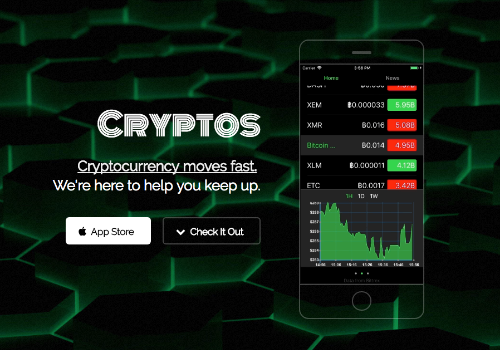
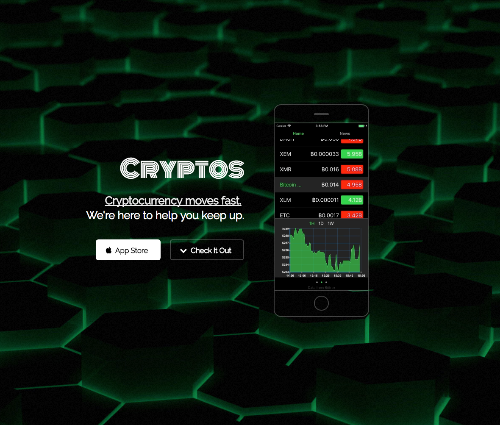
figured out the css source files

diff --git a/index.html b/index.html
@@ -40,7 +40,6 @@
 
 		<!-- Banner -->
 			<section id="banner">
-				<h2>Henry H. Chen</h2>
 				<p>My name is Henry Chen. I'm a software engineer and web designer. Browse my projects, or find out more about me below.</p>
 				<ul class="actions">
 					<li><a href="https://github.com/henrychen11" class="button big special">LinkedIn</a></li>
@@ -97,31 +96,31 @@
 			</section>
 
 		<!-- Two -->
-			<section id="two" class="wrapper special">
+			<section id="two" class="wrapper">
 				<div class="inner">
 					<header class="major narrow">
 						<h2>Skills and Technologies</h2>
 						<p>Filled with technological know how and endless curiosity</p>
 					</header>
 					<div class="image-grid">
-						<div>
-							<span class="icon major fa-television"></span>
-							<h3>FRONTEND:
+						<div class="image">
+							<span class="icon fa-television"></span>
+							<h3>Frontend:
 							<br><br>JavaScript (vanilla, jQuery, React/Redux, ES6), HTML/CSS/Sass</h3>
 							<p></p>
 						</div>
-						<div>
-							<span class="icon major fa-database"></span>
+						<div class="image">
+							<i class="custom fa fa-database" aria-hidden="true"></i>
 							<h3>Backend: <br><br>
 							Python, Java, Ruby on Rails, Node, Express, MongoDB</h3>
 						</div>
-						<div>
-							<span class="icon major fa-mobile"></span>
+						<div class="image">
+							<span class="icon fa-mobile"></span>
 							<h3>iOS Development: <br>
-							<br> REACT NATIVE<br>XCODE</h3>
+							<br>REACT NATIVE<br>XCODE</h3>
 						</div>
-						<div>
-							<span class="icon major fa-pencil"></span>
+						<div class="image">
+							<span class="icon fa-pencil"></span>
 							<h3>DESIGN: <br><br>
 							ADOBE CREATIVE SUITE<br>Balsamiq Mockups</h3>
 						</div>

diff --git a/assets/sass/layout/_banner.scss b/assets/sass/layout/_banner.scss
@@ -17,7 +17,7 @@
 		@include color-typography($banner_palette);
 		@include color-button($banner_palette);
 		background-attachment: fixed;
-		background-image: url('images/overlay.png'), url('../../images/banner.jpg');
+		// background-image: url('images/overlay.png'), url('../../images/banner.jpg');
 		background-size: cover;
 		text-align: center;
 

diff --git a/assets/css/main.css b/assets/css/main.css
@@ -3882,6 +3882,7 @@
 		background-image: url("images/overlay.png"), url("../../images/banner.jpg");
 		background-size: cover;
 		text-align: center;
+		min-height: 100vh;
 	}
 
 		#banner input, #banner select, #banner textarea {
